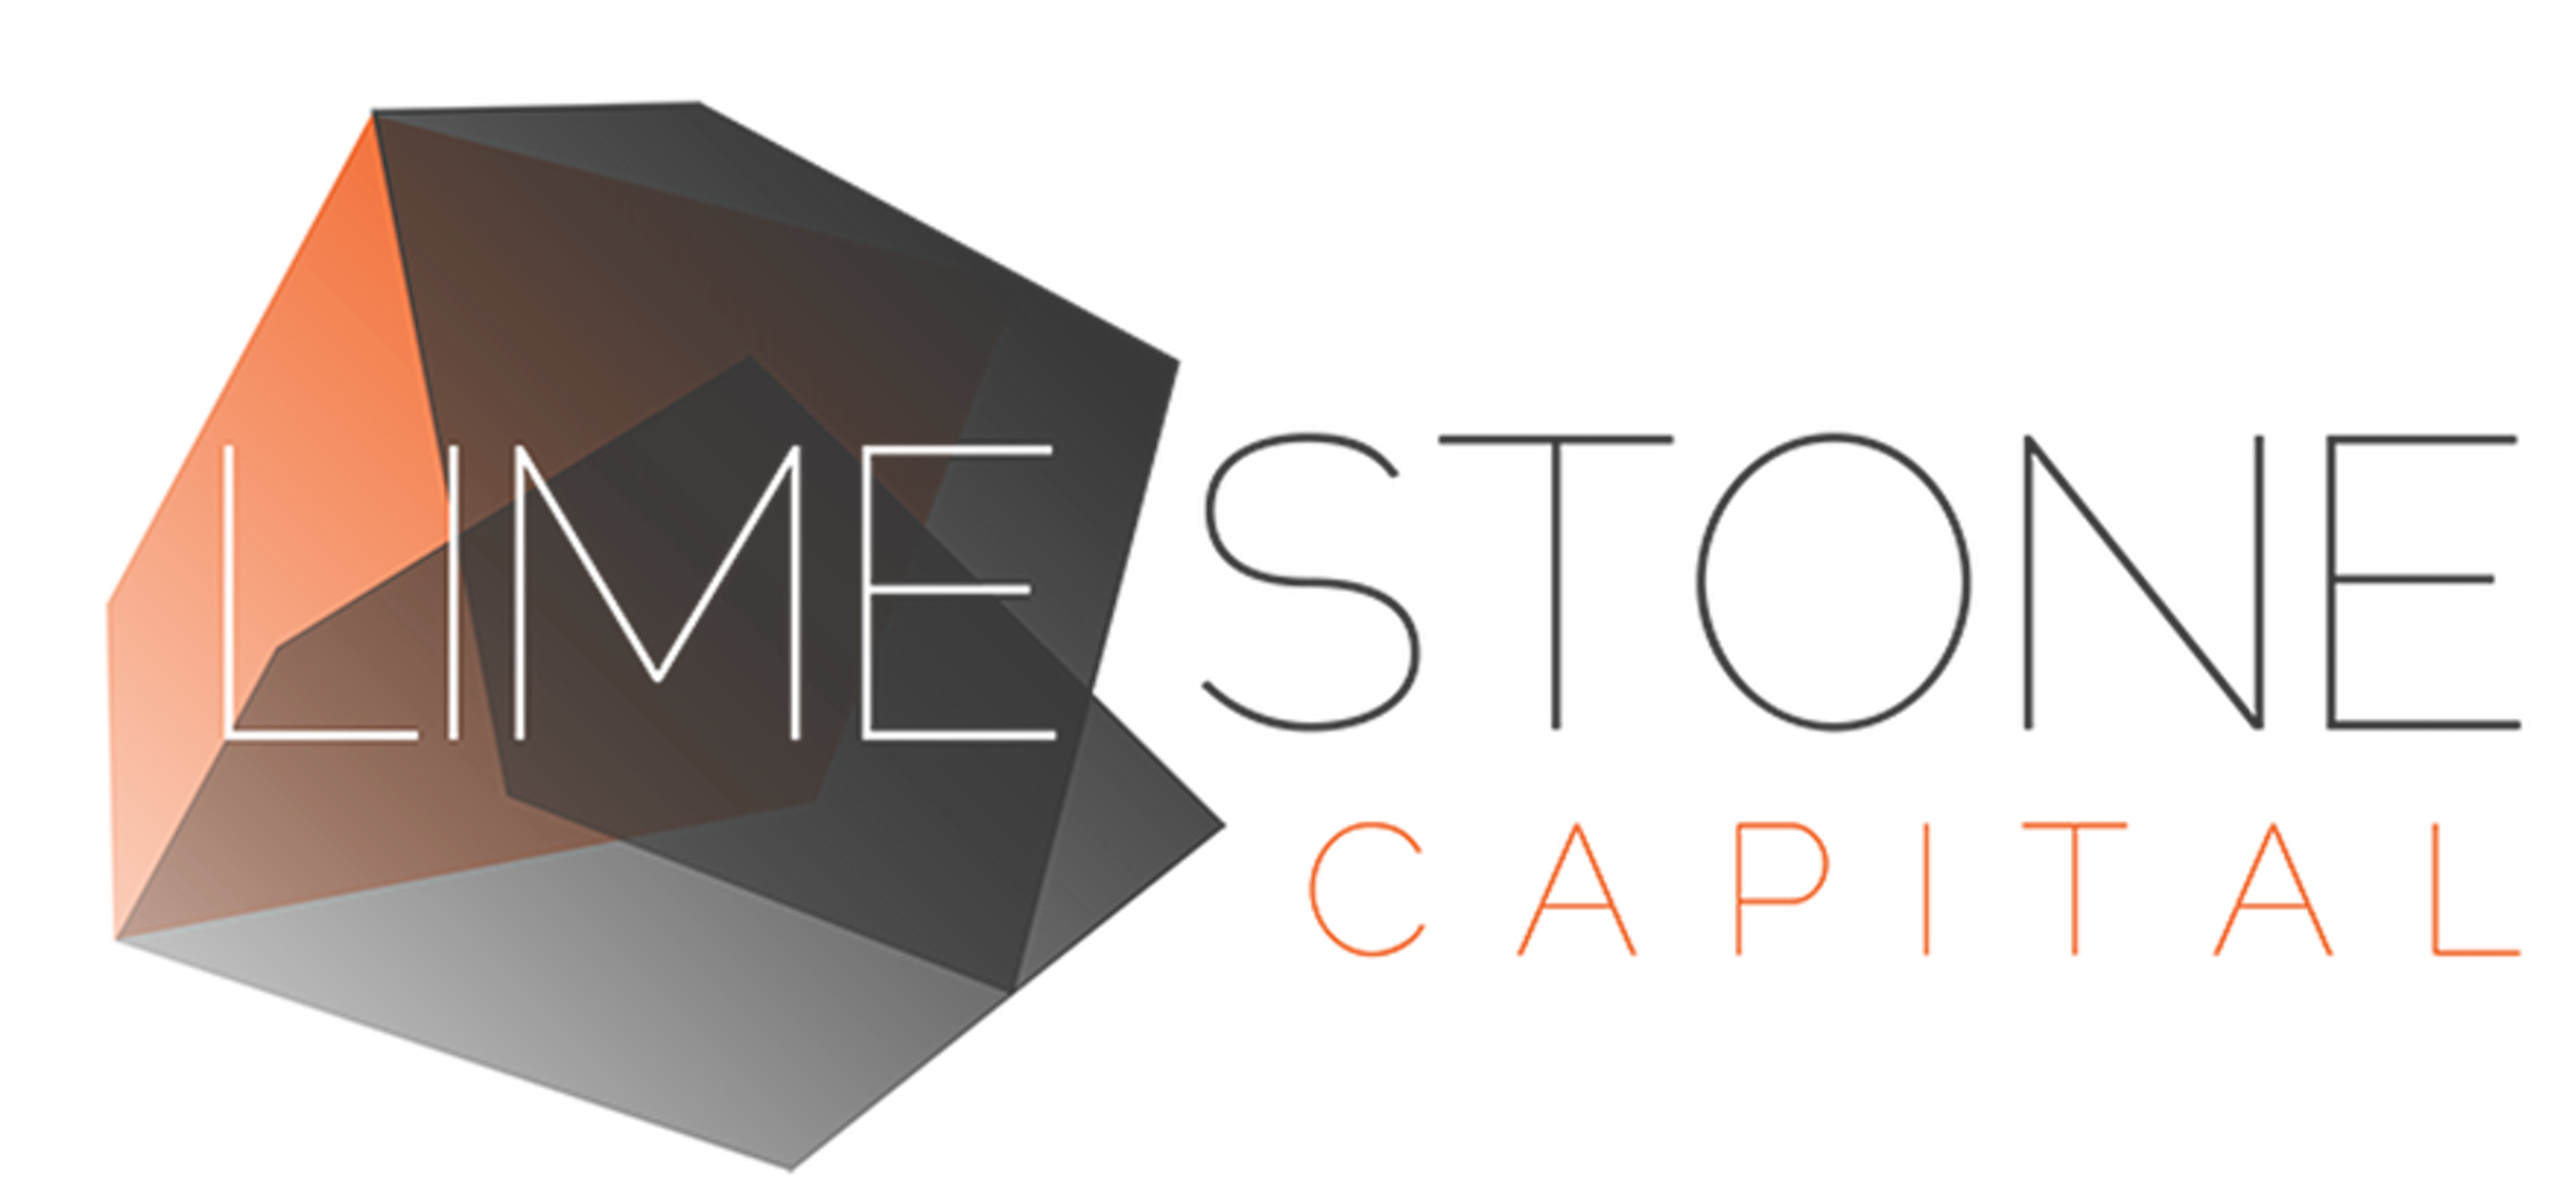
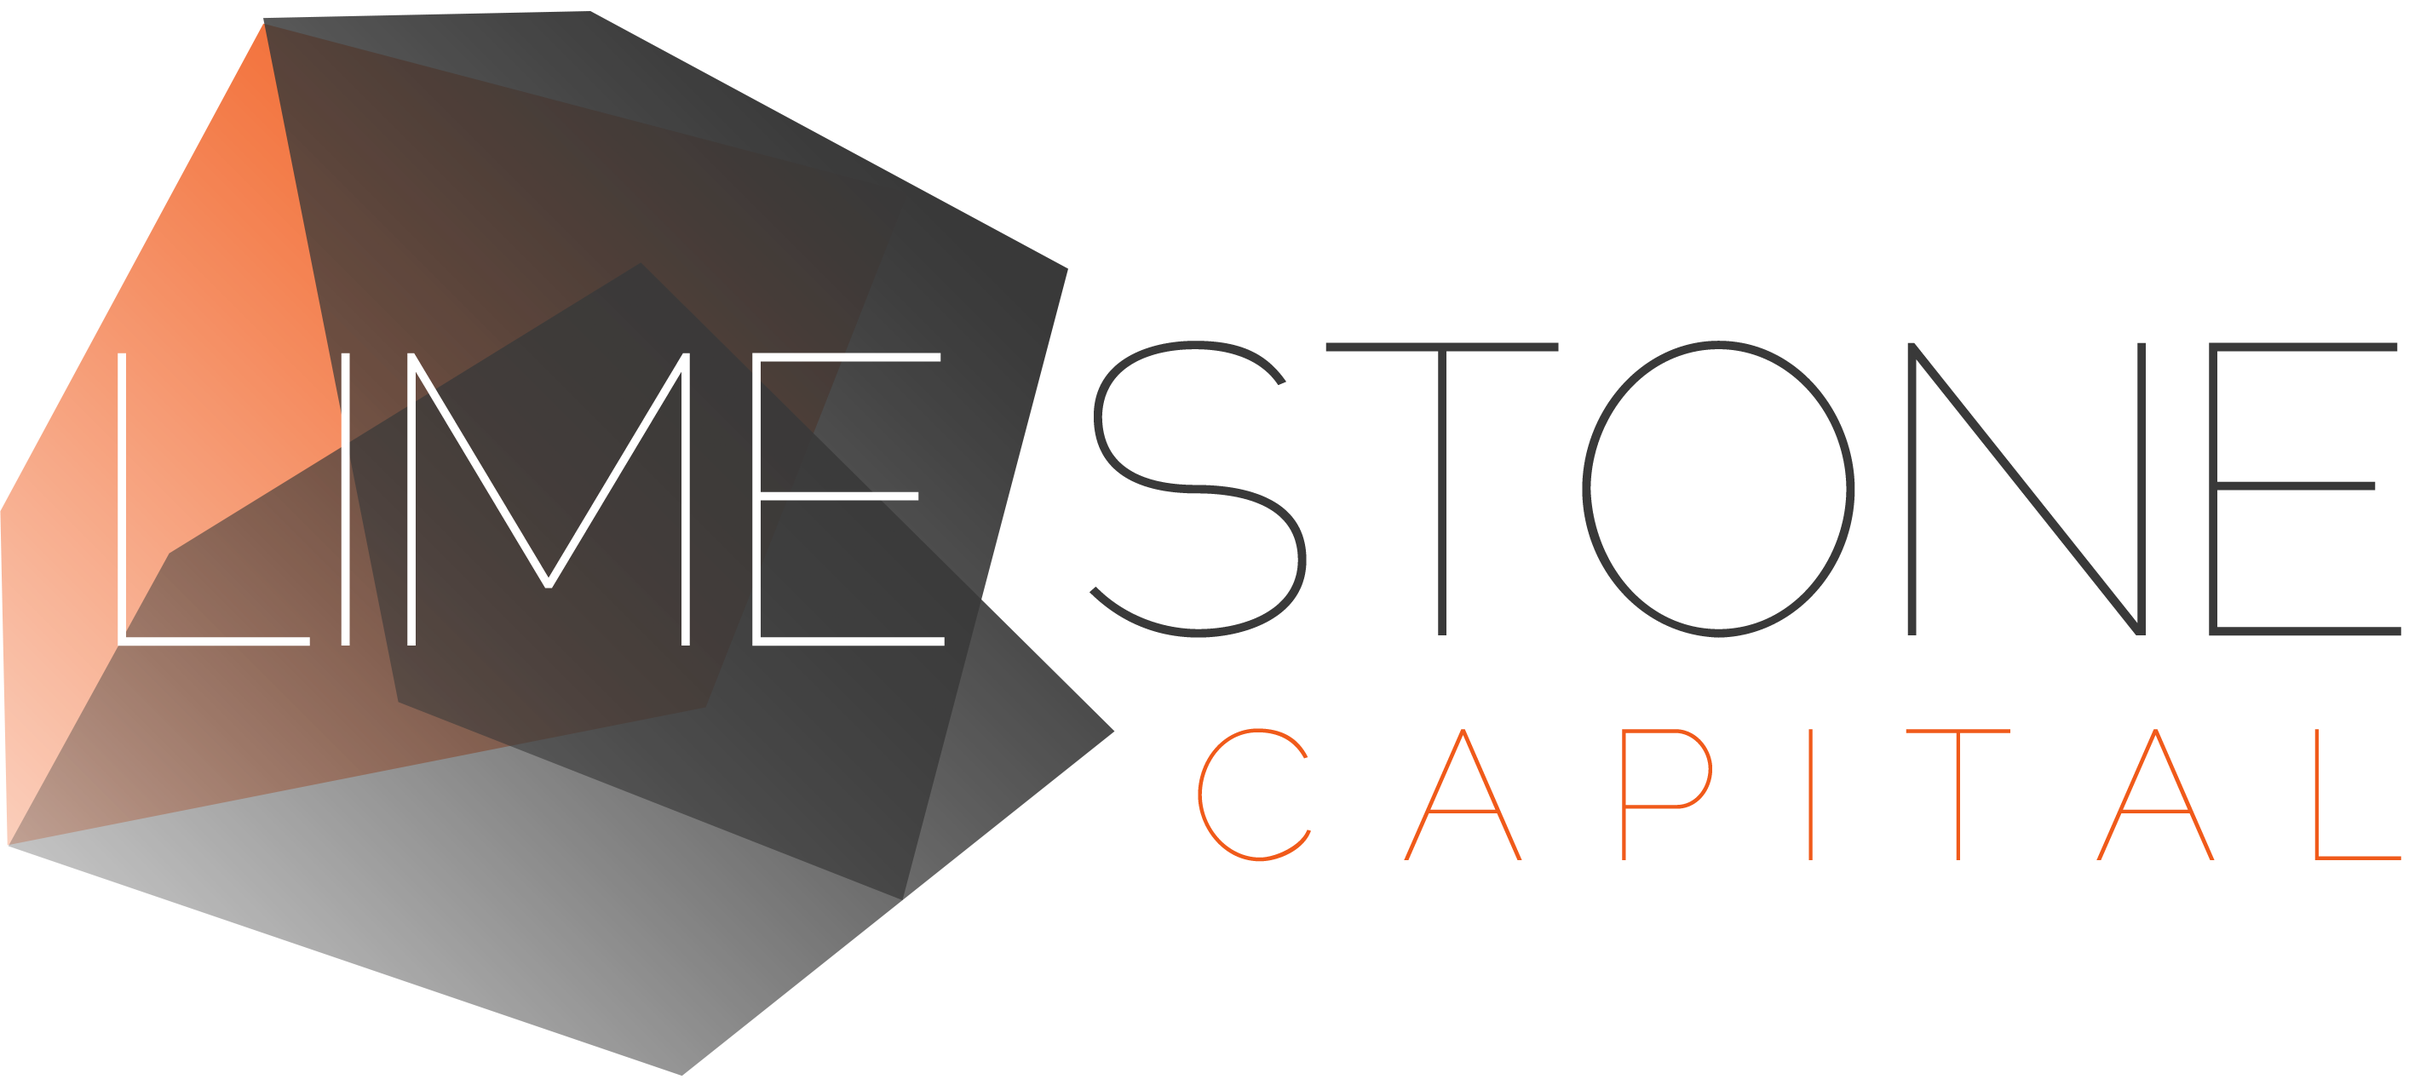
pic

diff --git a/pitches.html b/pitches.html
@@ -39,7 +39,7 @@
         <!-- Navigation -->
         <nav class="navbar navbar-expand-lg fixed-top">
             <div class="container-fluid">
-                <a href="index.html" class="navbar-brand"><img src="img/lime.png" alt=""></a>
+                <a href="index.html" class="navbar-brand1"><img src="img/lime.png" alt=""></a>
                 <button class="navbar-toggler" type="button" data-toggle="collapse" data-target="#navbarResponsive">
                     <span class="custom-toggler-icon"><i class="fas fa-bars"></i></span>
                 </button>

diff --git a/css/style.css b/css/style.css
@@ -60,8 +60,11 @@ font-size: 100;
 }
 
 /*============= NAVIGATION =============*/
+.navbar-brand1 img {
+   height: 3.7rem;
+}
 .navbar-brand img {
-   height: 4rem;
+   height: 3.7rem;
 }
 .navbarteam{
    background-color: #ccc8bc;

diff --git a/contact/contact.php b/contact/contact.php
@@ -17,8 +17,8 @@ $fromEmail = $_POST['email'];
 $fromName = $_POST['name'];
 
 // an email address & name that will receive the email with the output of the form
-$sendToEmail = 'name@mydomain.com';
-$sendToName = 'Name';
+$sendToEmail = 'executive@limestonecapital.org';
+$sendToName = 'executive';
 
 // subject of the email
 $subject = 'New message from contact form';
